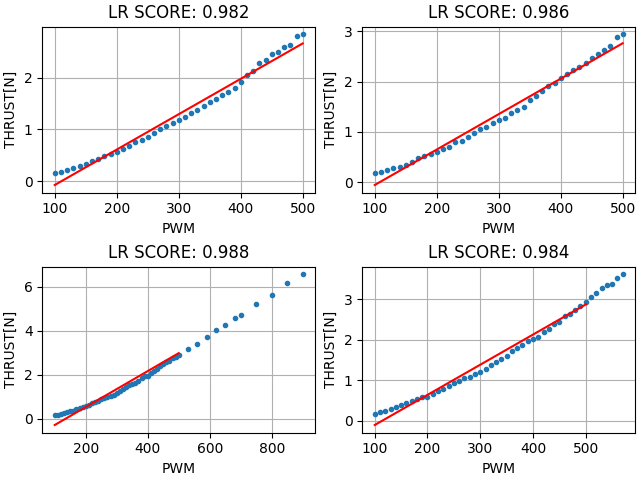
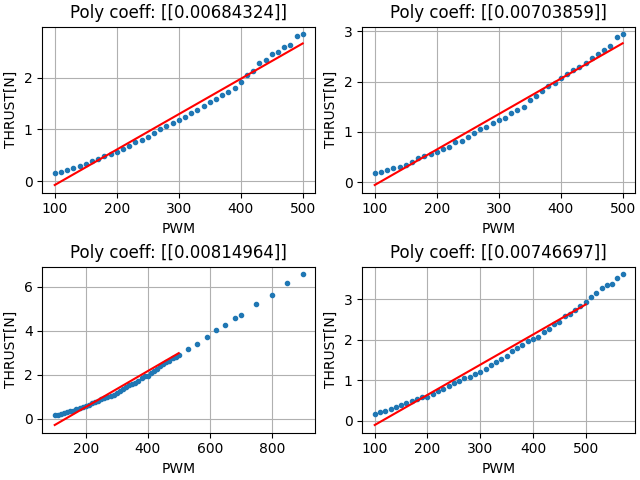
Added coefficients

diff --git a/ACQUISITION/TEST_PWM_MOTORS/regression.py b/ACQUISITION/TEST_PWM_MOTORS/regression.py
@@ -62,9 +62,8 @@ def plot_motor_LR(data, ind):
     plt.plot(X_new, y_pred, color='red', label='Linear Regression')
     plt.xlabel('PWM')
     plt.ylabel('THRUST[N]')
-    plt.title('LR SCORE: %.3f'%(score))
+    plt.title('Poly coeff: '+str(K))
     plt.grid()
-    print('Motor'+str(ind)+'Poly coeff: '+str(K))
 
 def plot_motor_array_LR(data):
     fig, axes = plt.subplots(2,2, constrained_layout=True)
